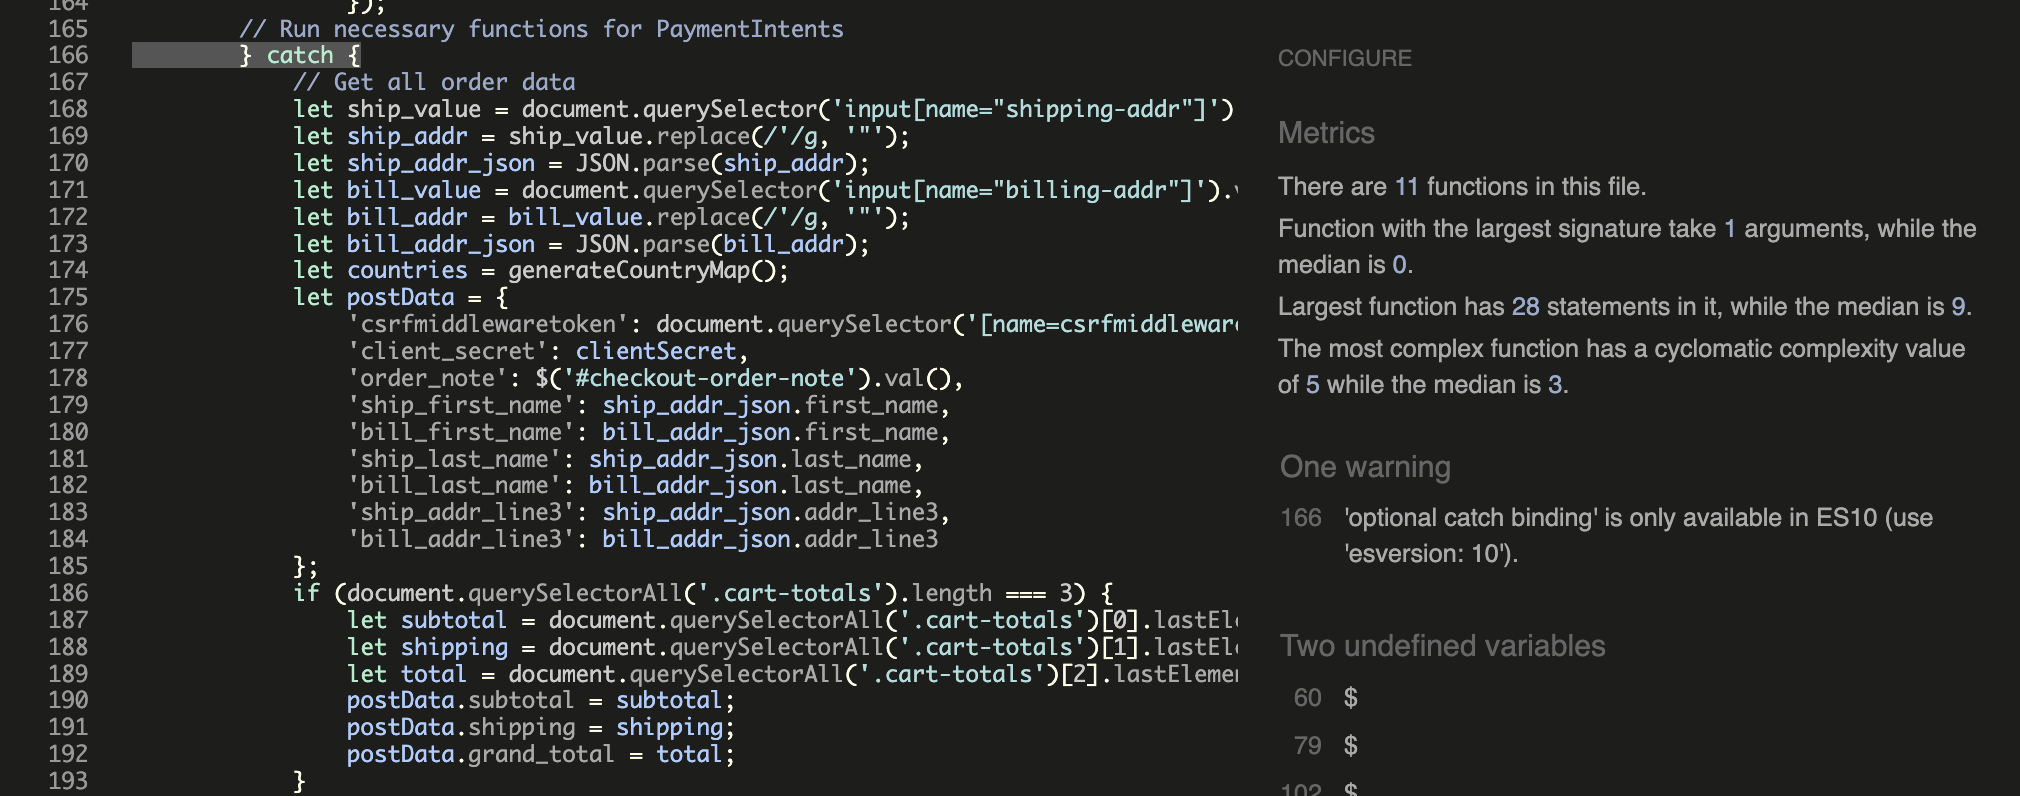
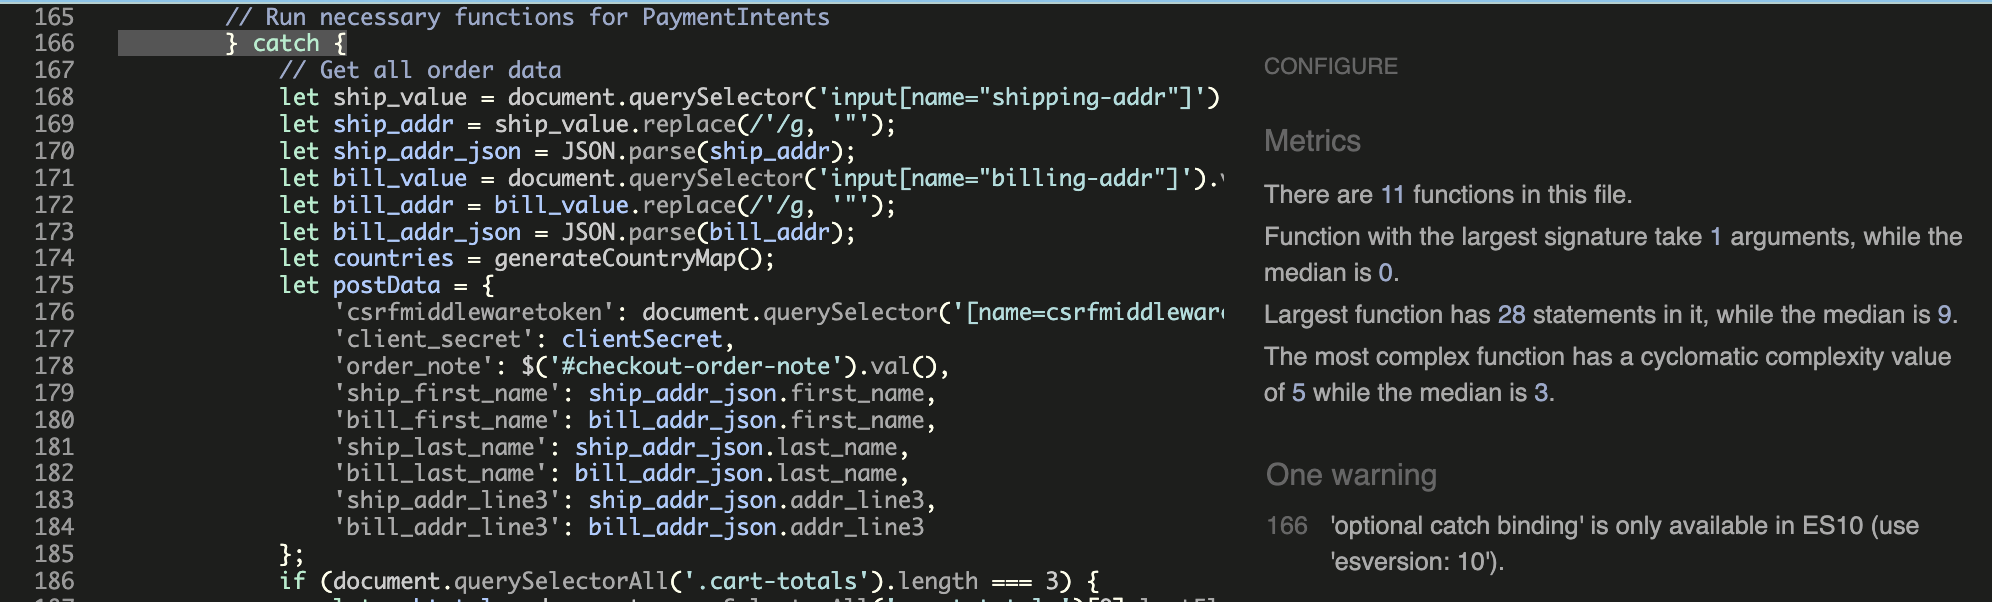
FEAT(readme): JSHint updates

diff --git a/README.md b/README.md
@@ -671,23 +671,29 @@ Contents of every CSS file validate using [Jigsaw](https://jigsaw.w3.org/css-val
 <img src='media/readme/w3c.webp' alt='W3C CSS Checker results'>
 
 #### JSHint
-All JavaScript files were checked using [JSHint](https://jshint.com/). It mentions "undefined variables", however they are all from JQuery ($), the base.js file (prvWidth) that is pre-loaded separately, or the HTML file (json_addr). "unused variables" are also mentioned, but they are used in the HTML files as on-click functions.
+All JavaScript files were checked using [JSHint](https://jshint.com/).
 
-5 warnings from JSHint remain:
-- Use ES10 for optional catch binding (catch binding works on the live site without issue)
-- Body of for should be wrapped in if; it is already wrapped in an if statement
-- 3x Confusing semantics due to in-loop functions referencing outer-scoped variables; this is incorrect, the in-loop reference is to make updates related to that specific element
+The below warnings from JSHint remain, but are not relevant, as per the provided comments:
+1. "undefined variables" mentioned are all from JQuery ($), the base.js file (prvWidth) that is pre-loaded separately, or the HTML file (json_addr)
+2. "unused variables" mentioned are all used in the HTML files as on-click functions
+3. Use ES10 for optional catch binding; catch binding works on the live site without issue
+4. Body of for should be wrapped in if; it is already wrapped in an if statement
+5. 3x Confusing semantics due to in-loop functions referencing outer-scoped variables; this is incorrect, the in-loop reference is to make updates related to that specific element
 
 All other (syntax) issues were resolved.
 
-stripe.py:
-<img src='media/readme/jshint-stripe.webp' alt='JSHint stripe errors'>
+1. and 2. checkout.py (prvWidth is also used in products.py, addresses.py, orders.py, cart.py with the same warning):
+<img src='media/readme/jshint-checkout.webp' alt='JSHint checkout warnings'>
+2. base.py:
+<img src='media/readme/jshint-base.webp' alt='JSHint base warnings'>
+3. stripe.py:
+<img src='media/readme/jshint-stripe.webp' alt='JSHint stripe warnings'>
+4. products.py:
+<img src='media/readme/jshint-products-143.webp' alt='JSHint product warnings line 143'>
+5. products.py:
+<img src='media/readme/jshint-products-190-196.webp' alt='JSHint product warnings lines 190 and 196'>
+<img src='media/readme/jshint-products-465.webp' alt='JSHint product warnings line 465'>
 
-products.py:
-<img src='media/readme/jshint-products.webp' alt='JSHint product errors'>
-
-checkout.py:
-<img src='media/readme/jshint-checkout.webp' alt='JSHint checkout errors'>
 
 #### PEP8
 All python files were checked using [PEP8](https://pep8ci.herokuapp.com/). The only errors are from Django "AUTH_PASSWORD_VALIDATORS" in the settings.py file (lines too long).
